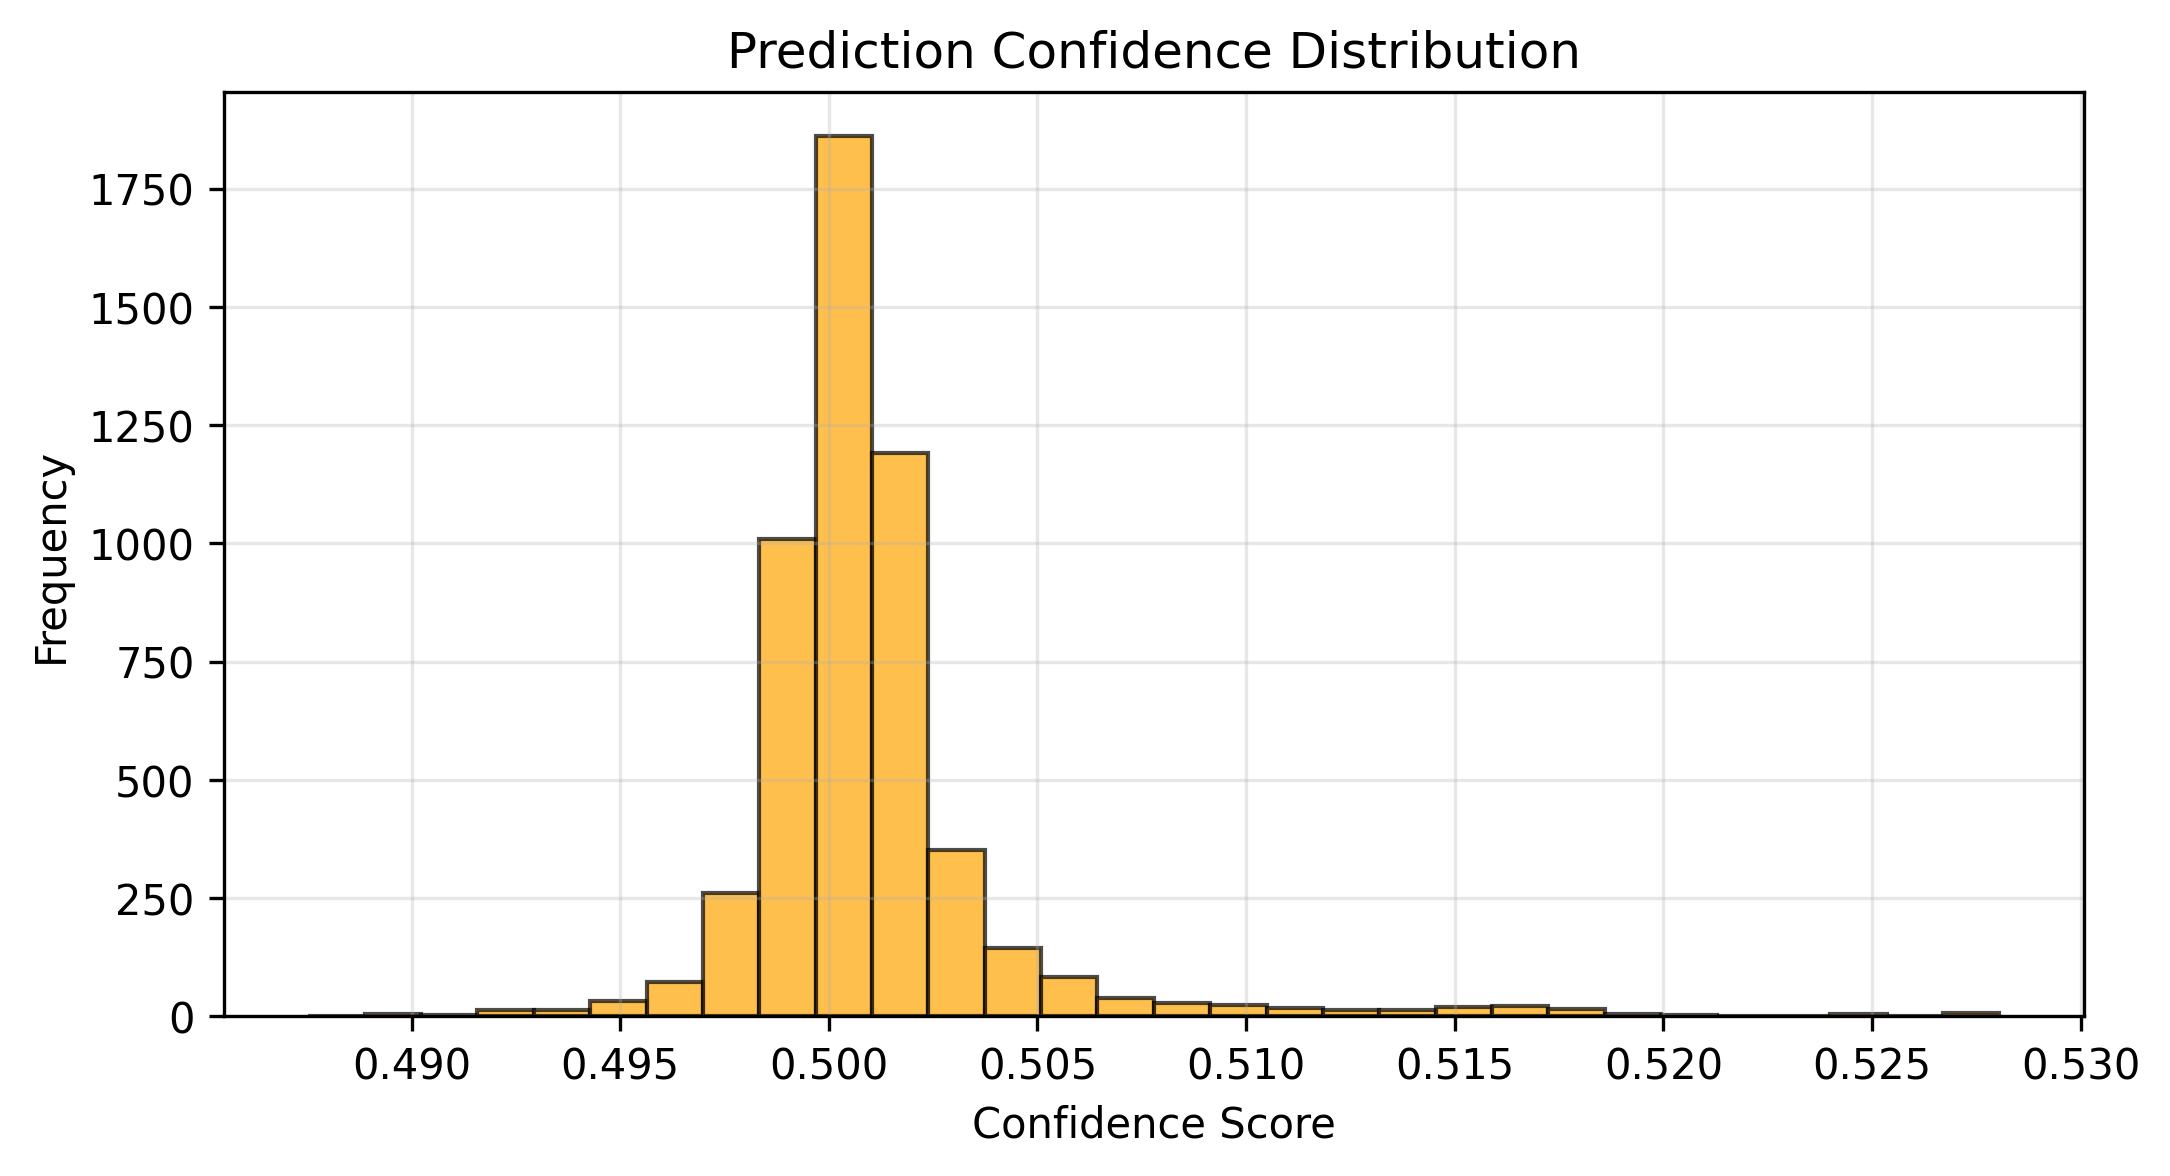
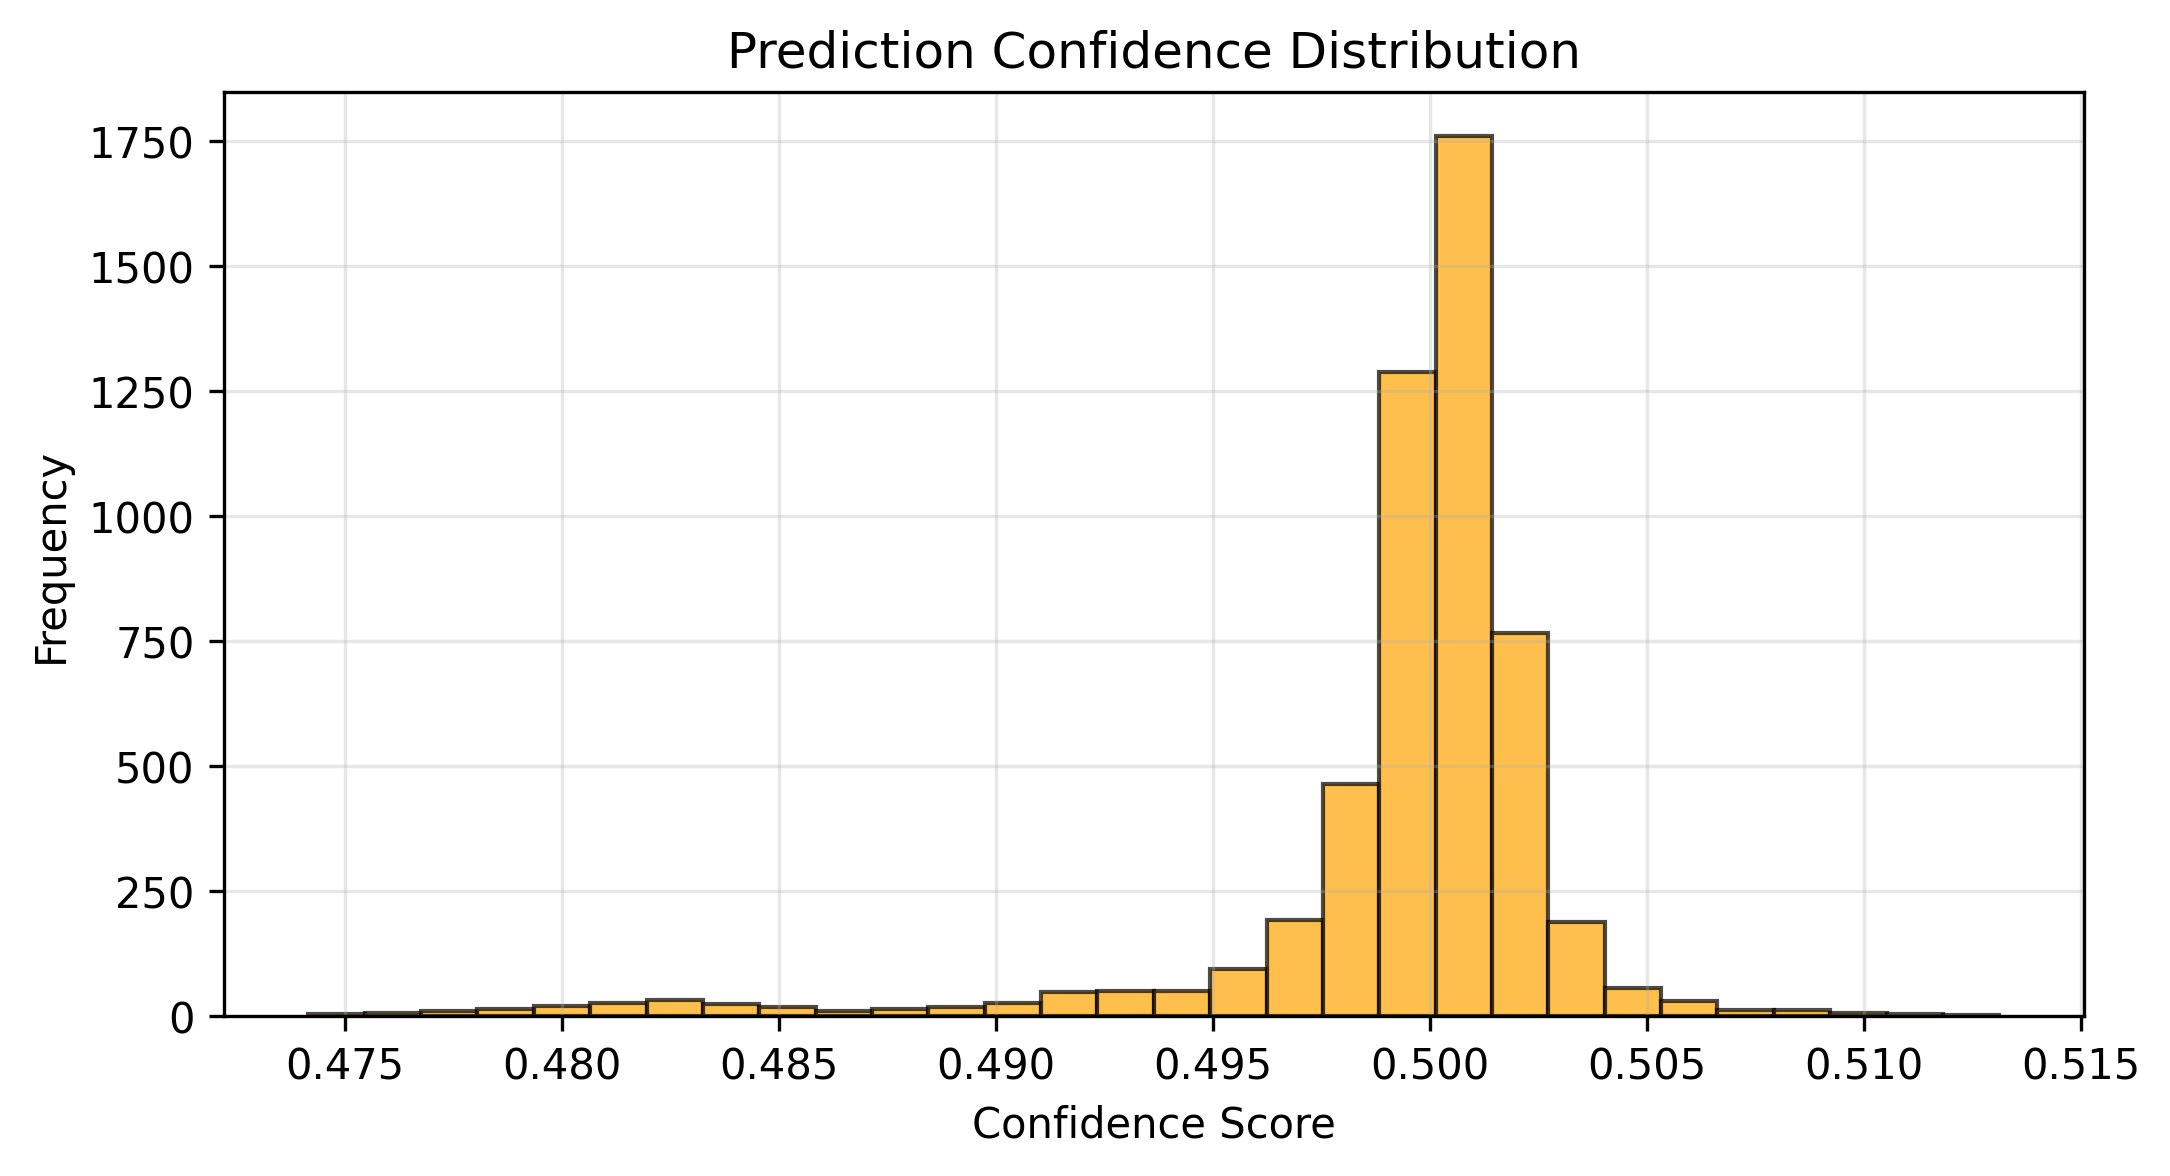
:art: Update fault detection model with detailed epoch reporting and increase max iterations

diff --git a/ising_fault_detection_final.py b/ising_fault_detection_final.py
@@ -123,10 +123,15 @@ class PracticalIsingFaultDetector:
         
         start_time = time.time()
         
+        # 用于存储每个epoch的预测结果
+        epoch_predictions = []
+        epoch_true_labels = []
+        
         for iteration in range(self.max_iter):
             # 随机选择样本
             sample_idx = np.random.randint(len(X_processed))
             d_sample = d_values[sample_idx]
+            y_sample = y[sample_idx]
             
             # 计算当前能量
             energy = self.compute_energy(self.spins, d_sample)
@@ -138,9 +143,46 @@ class PracticalIsingFaultDetector:
             self.energy_history.append(energy)
             self.spin_history.append(np.sum(self.spins == 1))
             
-            # 打印进度
-            if iteration % 50 == 0 or iteration == self.max_iter - 1:
-                print(f"Iter {iteration:3d}: Energy={energy:.2f}, NormalSensors={np.sum(self.spins==1)}")
+            # 计算当前样本的预测
+            fault_probs = self.compute_fault_probability(self.spins, d_sample)
+            avg_fault_prob = np.mean(fault_probs)
+            is_fault_pred = 1 if avg_fault_prob > 0.5 else 0
+            is_fault_true = 1 if y_sample != 1 else 0
+            
+            # 存储用于epoch报告
+            epoch_predictions.append(is_fault_pred)
+            epoch_true_labels.append(is_fault_true)
+            
+            # 每50次迭代生成详细报告
+            if (iteration) % 100 == 0 or iteration == self.max_iter - 1:
+                print(f"\n{'='*60}")
+                print(f"迭代 {iteration+1} 详细报告")
+                print(f"{'='*60}")
+                
+                # 计算当前epoch的指标
+                accuracy = accuracy_score(epoch_true_labels, epoch_predictions)
+                cm = confusion_matrix(epoch_true_labels, epoch_predictions)
+                
+                print(f"当前迭代范围: {iteration-49}-{iteration}")
+                print(f"样本数量: {len(epoch_predictions)}")
+                print(f"准确率: {accuracy:.4f}")
+                print(f"\n混淆矩阵:")
+                print(cm)
+                if cm.shape == (2, 2):
+                    print(f"TN: {cm[0,0]}, FP: {cm[0,1]}")
+                    print(f"FN: {cm[1,0]}, TP: {cm[1,1]}")
+                
+                print(f"\n分类报告:")
+                print(classification_report(epoch_true_labels, epoch_predictions, 
+                                          target_names=['Normal', 'Fault']))
+                
+                print(f"能量: {energy:.2f}, 正常传感器: {np.sum(self.spins==1)}")
+                print(f"当前样本置信度: {avg_fault_prob:.3f}")
+                print(f"{'='*60}")
+                
+                # 重置epoch数据
+                epoch_predictions = []
+                epoch_true_labels = []
         
         training_time = time.time() - start_time
         print(f"\n训练完成! 耗时: {training_time:.2f}秒")
@@ -212,7 +254,7 @@ def main():
     model = PracticalIsingFaultDetector(
         n_sensors=354,
         temperature=1.0,
-        max_iter=300,
+        max_iter=30000,
         mc_steps=100
     )
     
